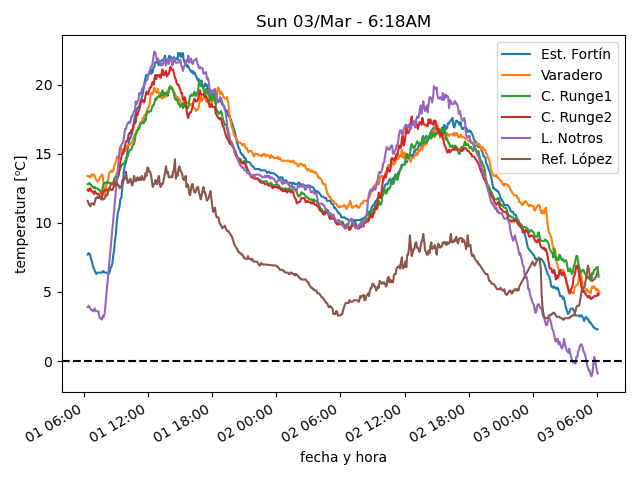
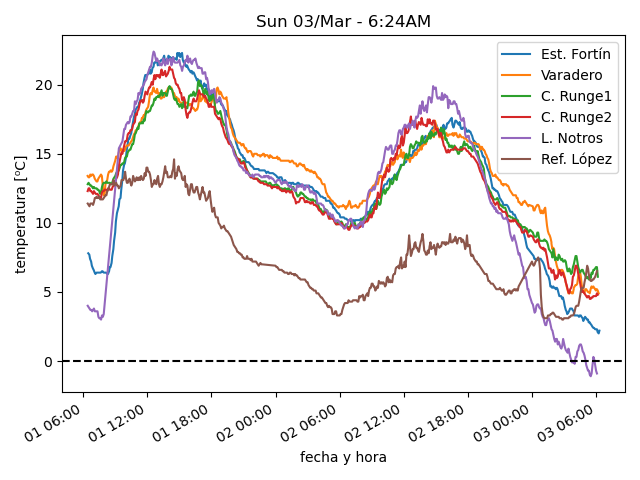
actualiza datos

diff --git a/estaciones/estacion1.html b/estaciones/estacion1.html
@@ -18,22 +18,22 @@
     </tr>
     <tr>
      <td class="stats_data">
-      6:04AM
+      6:18AM
      </td>
     </tr>
     <tr>
      <td class="stats_data">
-      2.3
+      2.2
      </td>
     </tr>
     <tr>
      <td class="stats_data">
-      -3.3
+      -2.6
      </td>
     </tr>
     <tr>
      <td class="stats_data">
-      66.3
+      71.0
      </td>
     </tr>
     <tr>
@@ -43,7 +43,7 @@
     </tr>
     <tr>
      <td class="stats_data">
-      2.0/4.3 N
+      2.3/7.2 N
      </td>
     </tr>
     <tr>
